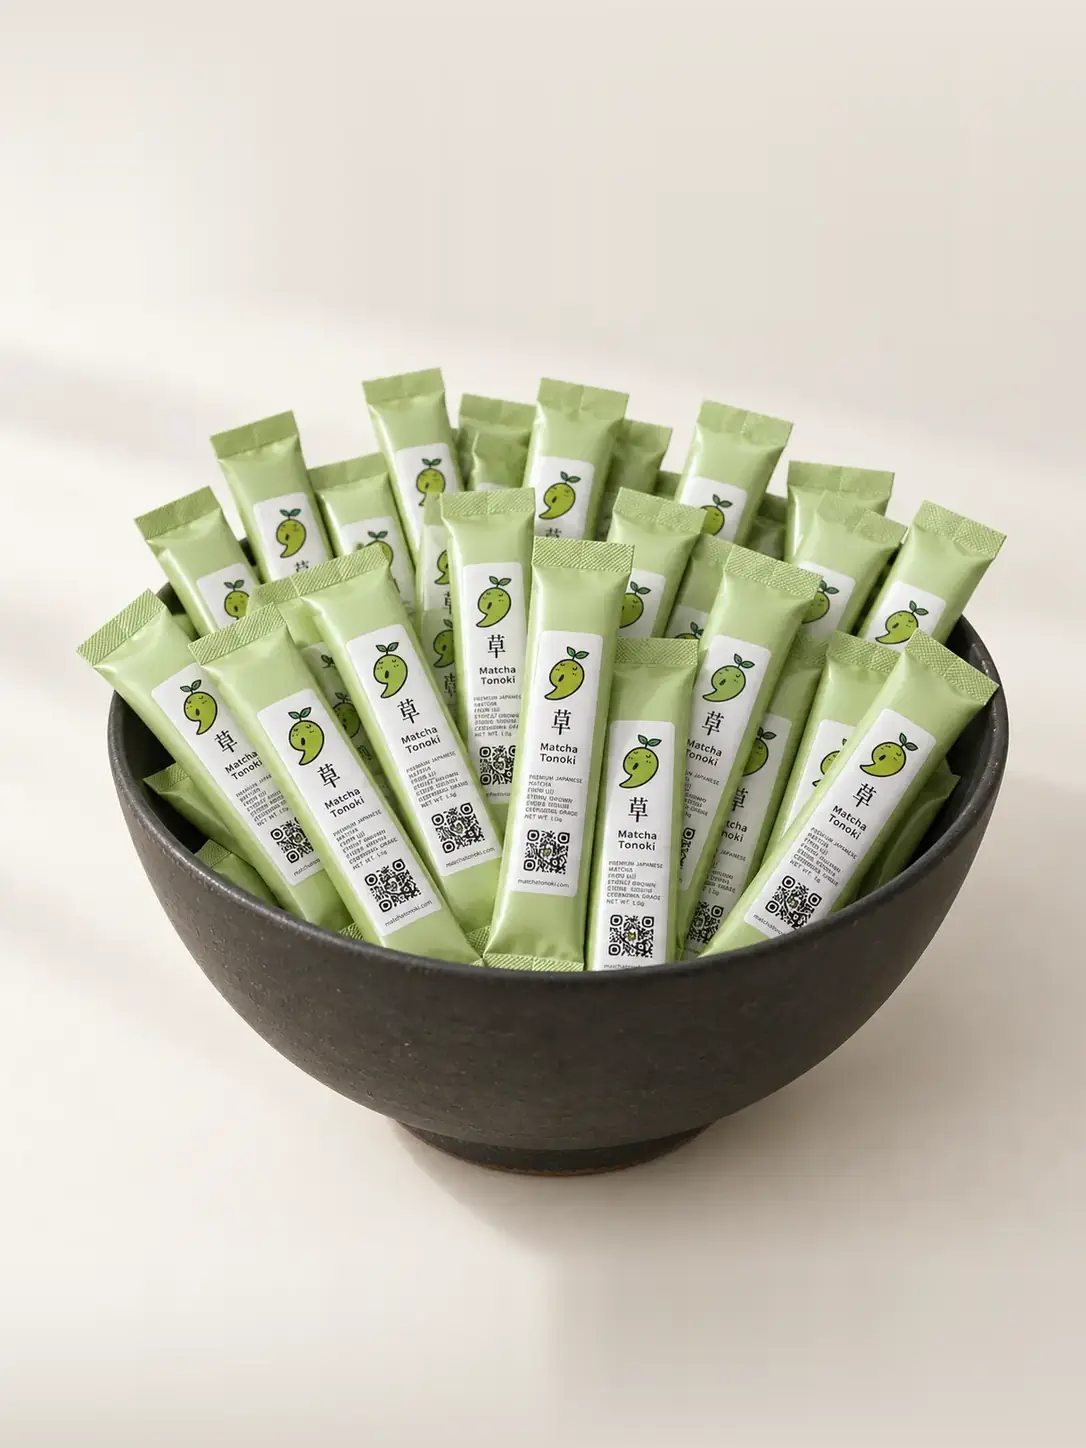
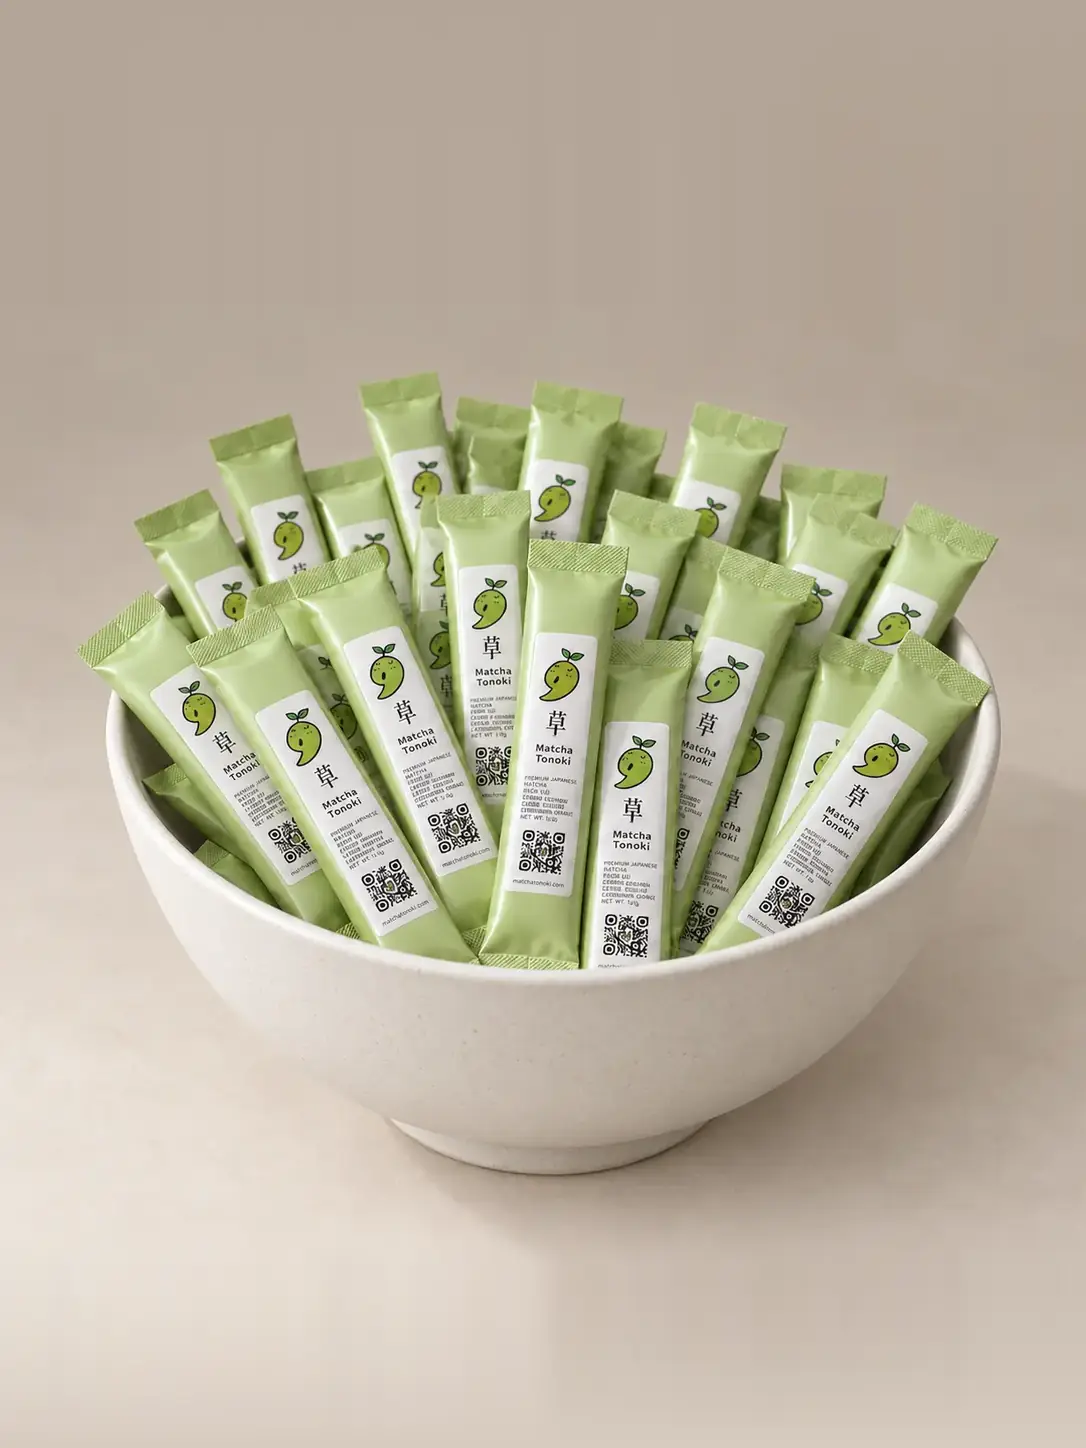
Open the tube, and set the bowl in pale ceramic
Two more frames from Jaumes session. The Vessel stops being a closed,
sealed tube and becomes the tube open, lid set beside it, four sticks
laid in front -- the composition the sachet photograph used to carry,
which belonged to the tube all along. The Single Serving keeps this
mornings bowl but in pale ceramic rather than dark stone.

The tube frame arrived 1086x1448, the house size exactly, so it is
committed as delivered: no crop, no re-encode. The bowl arrived
landscape again and went back through reframe-sachet-2026-09-15.py
untouched; only the measured subject box moved, SX1 1230 to 1240, the
new rim reaching a few pixels further right.

Both alt texts follow their photographs.

Noted in the status doc and not fixed here: A and C now share a ground
from one session and B does not. Side by side the pouch is visibly a
different paper, which wants a re-shoot rather than a grade.

142 tests, check 0 errors, build clean.

Claude-Session: https://claude.ai/code/session_01MNAevD8SDEgaoQUJrf1zBL

diff --git a/src/lib/data/vessels.ts b/src/lib/data/vessels.ts
@@ -31,7 +31,7 @@ export const vessels: Vessel[] = [
     description:
       'Twenty-five single servings held in a seamless paper tube. The travelling form: a month of ceremony, carried without ceremony.',
     image: '/images/packaging/matchatonoki-tube-25.webp',
-    alt: 'The closed Matcha Tonoki paper tube, labelled and sealed',
+    alt: 'An open Matcha Tonoki paper tube, its lid set beside it and four 2 gram sachets laid in front',
     marks: [
       { label: 'Contents', value: '25 × 2 g sachets — 50 g' },
       { label: 'Material', value: 'Seamless uncoated paper, foil-lined' },
@@ -64,7 +64,7 @@ export const vessels: Vessel[] = [
       'One bowl, sealed at the mill. Individual foil sachet that protects the leaf from light and air until the moment of service.',
     note: 'Loose from one hundred sachets — ask us. Otherwise it travels inside the tube.',
     image: '/images/packaging/matchatonoki-sachet-2g.webp',
-    alt: 'A dark stone bowl holding several dozen Matcha Tonoki 2 gram sachets, standing upright',
+    alt: 'A pale ceramic bowl filled with Matcha Tonoki 2 gram sachets, standing upright',
     marks: [
       { label: 'Contents', value: '2 g — one bowl of usucha' },
       { label: 'Material', value: 'Triple-layer foil, nitrogen flushed' },

diff --git a/.agents/docs/project-status-2026-09-15.md b/.agents/docs/project-status-2026-09-15.md
@@ -52,3 +52,30 @@ reusing it later; the visible composition is the same either way.
 `npm run check` 0 errors (the two standing `dot`/`ring` warnings in
 `CursorPointer.svelte`), `npm test` 142 passed / 1 skipped, `npm run build`
 clean. Visual acceptance is Jaume's, on `npm run dev`.
+
+---
+
+# Same day, second round — the tube too, and the bowl re-shot
+
+Jaume came back with two more frames from the same session:
+
+- **The Vessel (tube)** — the tube open, its lid set beside it, four sticks laid
+  in front. It replaces the closed, sealed tube. Arrived **1086 × 1448**, the
+  house size exactly, so it is committed as delivered: no crop, no re-encode,
+  no generation loss.
+- **The Single Serving** — the same bowl composition as this morning but in a
+  **pale ceramic bowl** rather than the dark stone one. Landscape again
+  (1448 × 1086), so it went through `reframe-sachet-2026-09-15.py` unchanged.
+  Only the measured subject box moved: `SX1` 1230 → **1240**, the new bowl's
+  rim reaching a few pixels further right. 57 KB.
+
+Both alt texts follow their photographs: the tube's says open with the lid
+beside it, the bowl's says pale ceramic rather than dark stone.
+
+Note for whoever shoots next: **the tube and the bowl share a ground, and the
+pouch does not.** A and C now sit on the same warm beige from one session; B is
+still the cooler, lighter sample from August. On the shelf the three read as
+one set at a glance, but side by side the pouch's ground is visibly a different
+paper. Not fixed here — it wants a re-shoot of B, not a colour grade of B.
+
+Verified again after the swap: check 0 errors, 142 tests, build clean.
